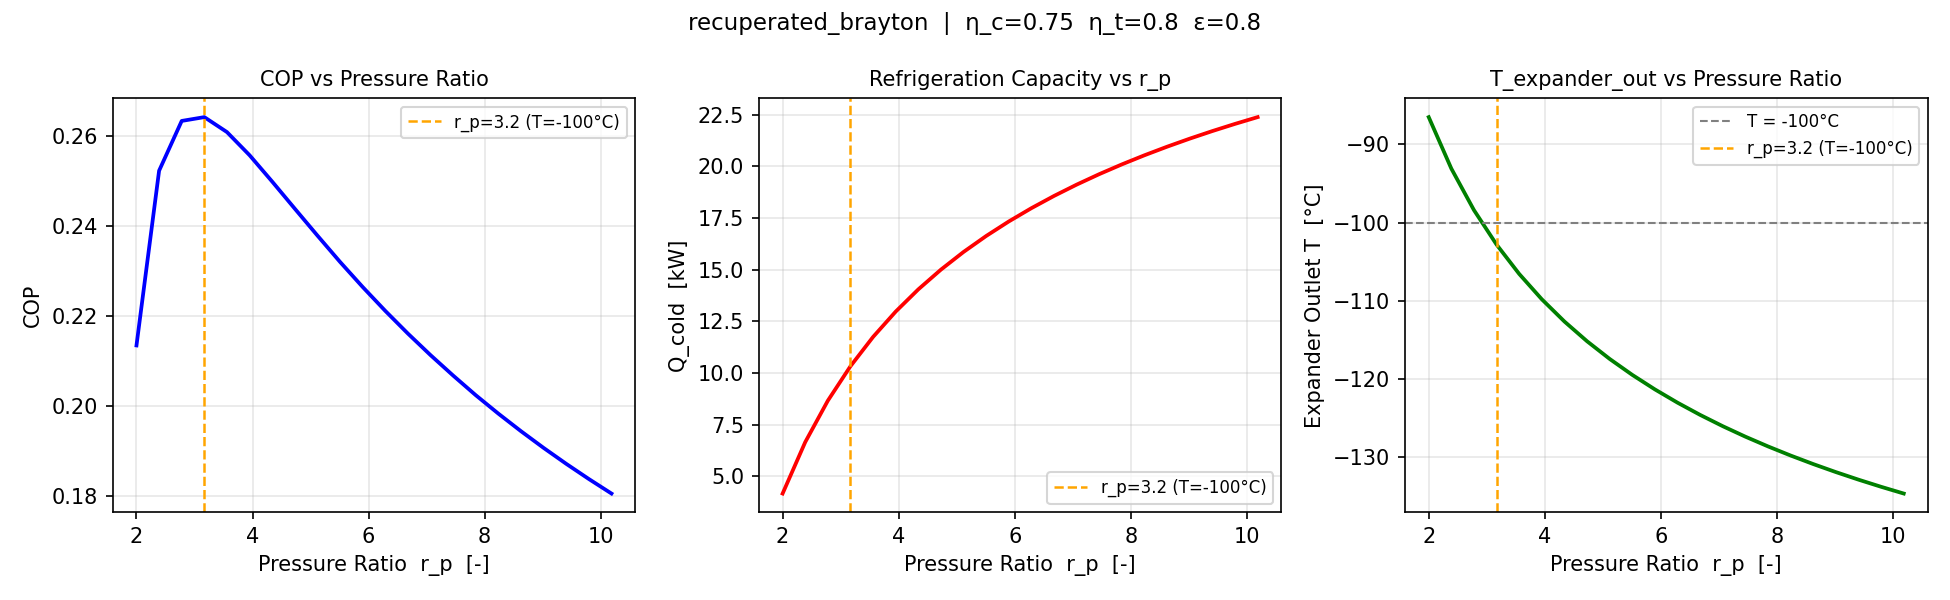
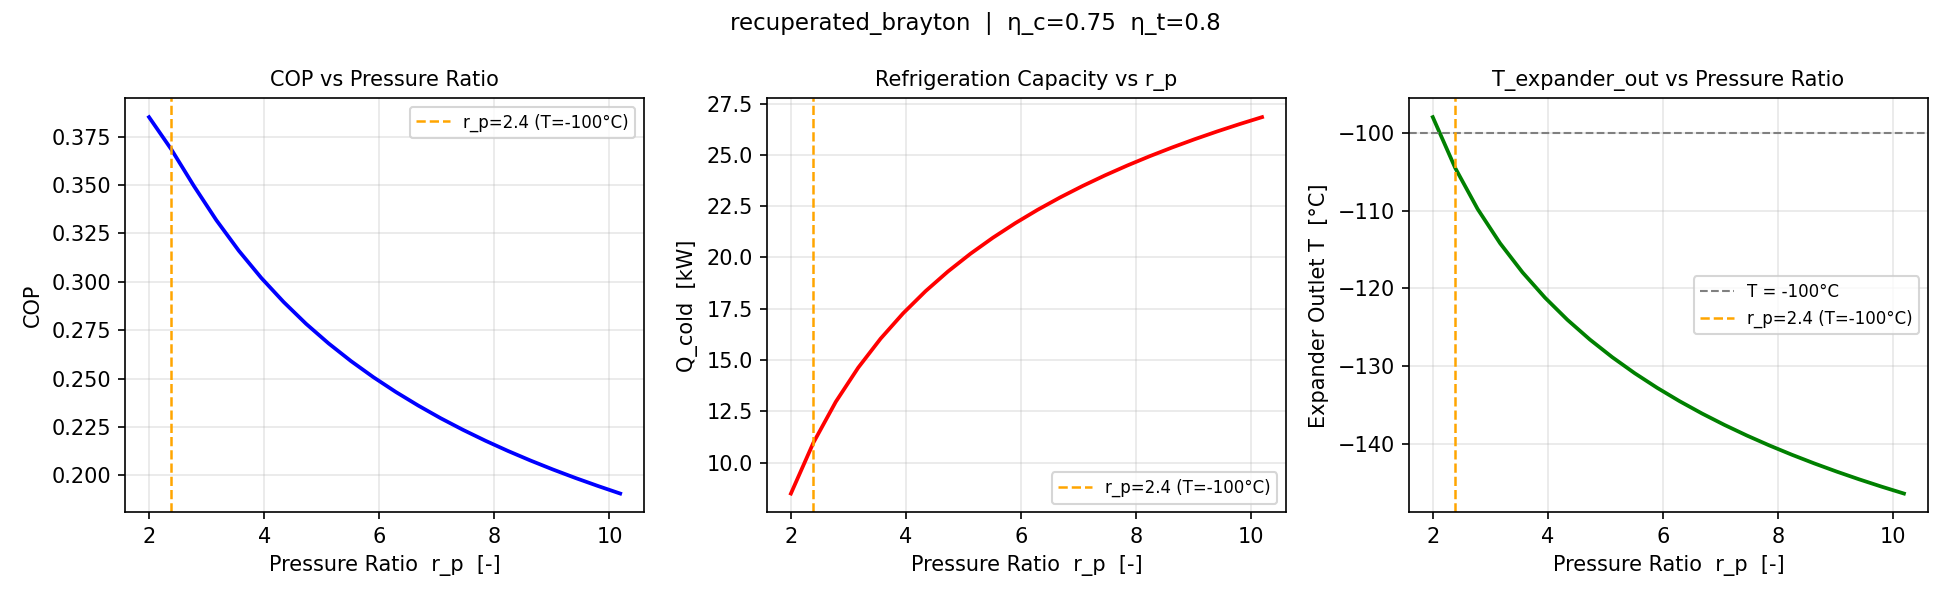
hx_recup까지 UA*LMTD 변환 완료.

diff --git a/src/components/hx_recuperator.py b/src/components/hx_recuperator.py
@@ -1,40 +1,39 @@
 """
 components/hx_recuperator.py
 ─────────────────────────────
-역류형 리큐퍼레이터 (effectiveness 기반).
+역류형 리큐퍼레이터 (UA·LMTD 기반).
 
-  hot side  : 고압 스트림이 열을 방출  (Q_dot < 0)
-  cold side : 저압 스트림이 열을 흡수  (Q_dot > 0)
+  hot side  : 고압 스트림 (State 3 → State 4)  Q_dot < 0
+  cold side : 저압 스트림 (State 6 → State 1)  Q_dot > 0
 
   평형 유량 (m_dot_hot = m_dot_cold = m_dot) 가정.
+  양측 모두 작동 유체(Air) — CoolProp, 서로 다른 압력.
 
-  ε 정의 (온도 기반):
-    ε = (T_hot_in - T_hot_out) / (T_hot_in - T_cold_in)
-  ∴ T_hot_out = T_hot_in - ε * (T_hot_in - T_cold_in)
-
-  에너지 수지 (실제 엔탈피 기반):
-    Q = m_dot * (h_hot_in - h_hot_out)          [정확]
-    h_cold_out = h_cold_in + Q / m_dot          [정확]
+  UA scaling (양측 대칭, m_dot 기준):
+    UA = UA_rated × (m_dot / m_dot_rated)^0.8
 """
 
 import sys
 import os
 sys.path.insert(0, os.path.join(os.path.dirname(__file__), ".."))
 
-from properties import ThermodynamicState, ComponentResult, state_from_TP, state_from_hP
+from properties import ThermodynamicState, ComponentResult, state_from_TP
+from components.hx_ua_lmtd import ua_scale, solve_counterflow
 
 
 def run(state_hot_in: ThermodynamicState,
         state_cold_in: ThermodynamicState,
-        effectiveness: float,
-        m_dot: float) -> tuple[ComponentResult, ComponentResult]:
+        UA_rated: float,
+        m_dot: float,
+        m_dot_rated: float) -> tuple[ComponentResult, ComponentResult]:
     """
     Parameters
     ----------
-    state_hot_in   : ThermodynamicState  고압(hot) 스트림 입구
-    state_cold_in  : ThermodynamicState  저압(cold) 스트림 입구
-    effectiveness  : float               열교환 효율 ε  [0, 1]
-    m_dot          : float               질량 유량 [kg/s] (양측 동일)
+    state_hot_in  : ThermodynamicState  고압(hot) 스트림 입구 (State 3)
+    state_cold_in : ThermodynamicState  저압(cold) 스트림 입구 (State 6)
+    UA_rated      : float               정격 UA [W/K]
+    m_dot         : float               질량 유량 [kg/s] (양측 동일)
+    m_dot_rated   : float               정격 질량 유량 [kg/s]
 
     Returns
     -------
@@ -47,24 +46,23 @@ def run(state_hot_in: ThermodynamicState,
             f"Recuperator: T_hot_in ({state_hot_in.T:.2f} K) "
             f"<= T_cold_in ({state_cold_in.T:.2f} K)"
         )
-    if not (0.0 < effectiveness <= 1.0):
-        raise ValueError(f"Recuperator: effectiveness={effectiveness} 는 (0, 1] 범위여야 함.")
 
-    # hot side 출구 온도 (ε 정의)
-    T_hot_out = state_hot_in.T - effectiveness * (state_hot_in.T - state_cold_in.T)
-    state_hot_out = state_from_TP(T_hot_out, state_hot_in.P,
-                                  fluid=state_hot_in.fluid, label="RecupHotOut")
+    UA = ua_scale(UA_rated, m_dot, m_dot_rated)
 
-    # hot side 열량 (음수: 방열)
-    Q_hot = m_dot * (state_hot_out.h - state_hot_in.h)   # < 0
+    T_hot_out, T_cold_out, Q_cf, _lmtd = solve_counterflow(
+        UA,
+        state_hot_in.T,  state_hot_in.P,  state_hot_in.fluid,   # hot side
+        state_cold_in.T, state_cold_in.P, state_cold_in.fluid,   # cold side
+        m_dot, m_dot,
+    )
 
-    # cold side 출구 엔탈피 (에너지 수지)
-    h_cold_out = state_cold_in.h + (-Q_hot / m_dot)      # = h_cold_in + |Q_hot|/m_dot
-    state_cold_out = state_from_hP(h_cold_out, state_cold_in.P,
-                                   fluid=state_cold_in.fluid, label="RecupColdOut")
+    state_hot_out  = state_from_TP(T_hot_out,  state_hot_in.P,
+                                    fluid=state_hot_in.fluid,  label="RecupHotOut")
+    state_cold_out = state_from_TP(T_cold_out, state_cold_in.P,
+                                    fluid=state_cold_in.fluid, label="RecupColdOut")
 
-    # cold side 열량 (양수: 흡열)
-    Q_cold = m_dot * (state_cold_out.h - state_cold_in.h)   # > 0
+    Q_hot  = m_dot * (state_hot_out.h  - state_hot_in.h)   # < 0
+    Q_cold = m_dot * (state_cold_out.h - state_cold_in.h)  # > 0
 
     result_hot  = ComponentResult(state_out=state_hot_out,  W_dot=0.0,
                                   Q_dot=Q_hot,  label="RecupHot")

diff --git a/src/cycles/recuperated_brayton.py b/src/cycles/recuperated_brayton.py
@@ -60,8 +60,12 @@ def run_cycle(config: dict, P_high: float) -> dict:
     m_dot = config["mass_flow"]
     eta_c = config["comp"]["eta_isen"]
     eta_t = config["expander"]["eta_isen"]
-    eps   = config["hx_recup"]["effectiveness"]
     P_low = config["P_low"]
+
+    # Recuperator UA 파라미터
+    rc = config["hx_recup"]
+    rc_UA_rated    = rc["UA_rated"]
+    rc_m_dot_rated = rc["m_dot_rated"]
 
     # T1: compressor inlet (recuperator cold outlet) initial guess
     T1 = config["comp"]["T_inlet"]
@@ -106,7 +110,8 @@ def run_cycle(config: dict, P_high: float) -> dict:
                                m_dot_rated=lhx_m_dot_rated,
                                T_sec=lhx_T_sec, m_dot_sec=lhx_m_dot_sec)
             _s6 = _lhx.state_out
-            _recup_hot, _ = hx_recuperator.run(state3, _s6, effectiveness=eps, m_dot=m_dot)
+            _recup_hot, _ = hx_recuperator.run(state3, _s6,
+                               UA_rated=rc_UA_rated, m_dot=m_dot, m_dot_rated=rc_m_dot_rated)
             return T4_K - _recup_hot.state_out.T
 
         T4_lo, T4_hi = 140.0, state3.T
@@ -131,9 +136,10 @@ def run_cycle(config: dict, P_high: float) -> dict:
         )
         state6 = loadhx_res.state_out
 
-        # Recuperator: hot (3->4) and cold (6->1)
+        # Recuperator: hot (3->4) and cold (6->1)  (UA·LMTD)
         recup_hot, recup_cold = hx_recuperator.run(
-            state3, state6, effectiveness=eps, m_dot=m_dot
+            state3, state6,
+            UA_rated=rc_UA_rated, m_dot=m_dot, m_dot_rated=rc_m_dot_rated,
         )
 
         T1_new = recup_cold.state_out.T

diff --git a/docs/todo_list.md b/docs/todo_list.md
@@ -67,17 +67,15 @@ def solve_counterflow(UA, state_hot_in, state_cold_in,
 
 ---
 
-### [ ] 1-3. Recuperator UA·LMTD 전환
-*(양측 모두 작동유체, 가장 복잡 — inner brentq 수정 필요)*
+### [x] 1-3. Recuperator UA·LMTD 전환
+*(양측 모두 작동유체 Air — CoolProp, 서로 다른 압력)*
 
-- **[A]** YAML: `hx_recup.effectiveness` 제거 → `UA_rated, m_dot_rated`
-- **[B]** `hx_recuperator.py` 리팩터
+- **[A]** YAML: `hx_recup.effectiveness` 주석 처리 → `UA_rated=5102.04, m_dot_rated=0.382` 추가
+- **[B]** `hx_recuperator.py` 리팩터 — `solve_counterflow(Air/P_high, Air/P_low)` 호출
   - UA scaling: `UA = UA_rated × (m_dot / m_dot_rated)^0.8` (양측 대칭)
-  - `run(state_hot_in, state_cold_in, UA_rated, m_dot, m_dot_rated)` → (result_hot, result_cold)
-- **[C]** `recuperated_brayton.py` inner brentq residual 수정:
-  ε 기반 `T4 = T3 - ε*(T3-T5)` → UA 기반 `Q(T4) - UA·LMTD(T4) = 0`
-- **[D]** `main.py`: Recuperator UA [W/K], LMTD [K], Q_dot [W] 출력 추가
-- 검증: T1 수렴성, 에너지 평형, COP 확인
+- **[C]** `recuperated_brayton.py`: `effectiveness` 인자 → UA 인자로 교체 (inner brentq 포함)
+- 검증 완료: T1=301.33 K, T4=205.13 K, T5=168.48 K, T6=197.10 K, Q_cold=11.02 kW, COP=0.368, Q_recup=40.05 kW, energy_error=5.8e-4
+- **남은 작업**: `main.py` 출력 추가 (1-1[F]와 함께), YAML effectiveness 항목 제거
 
 ---
 
